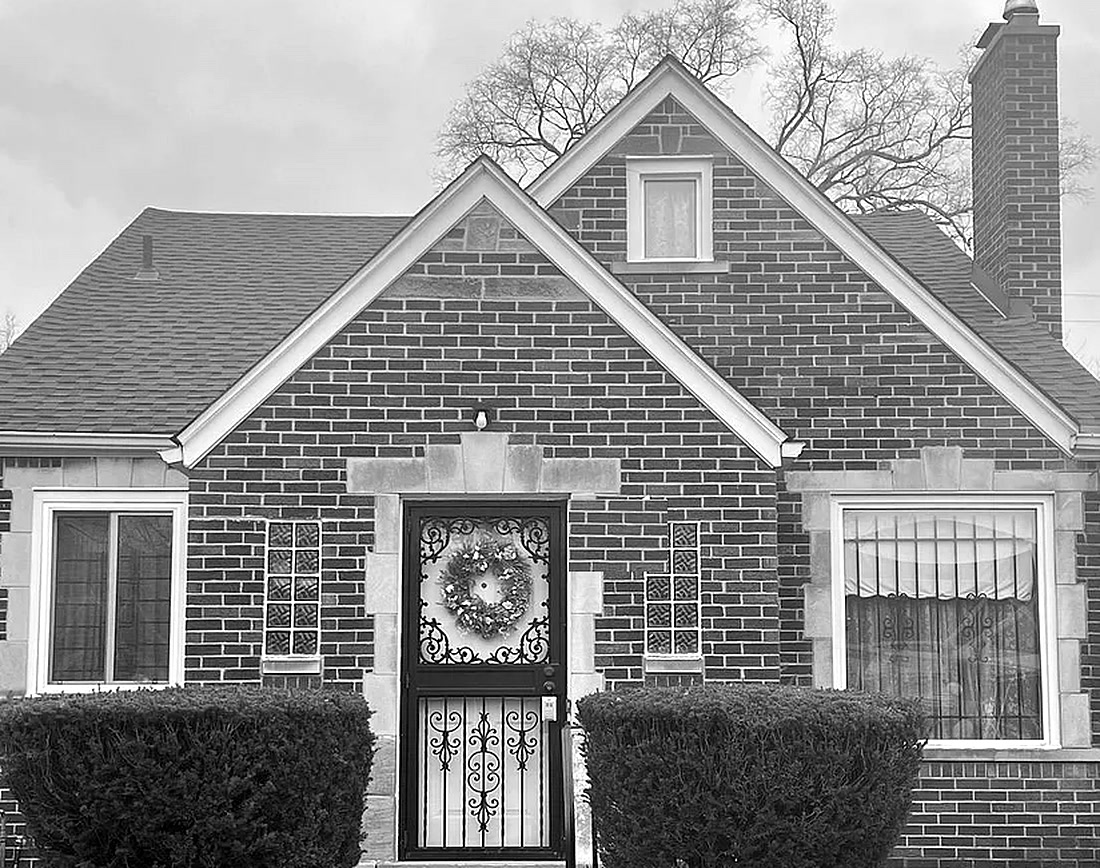
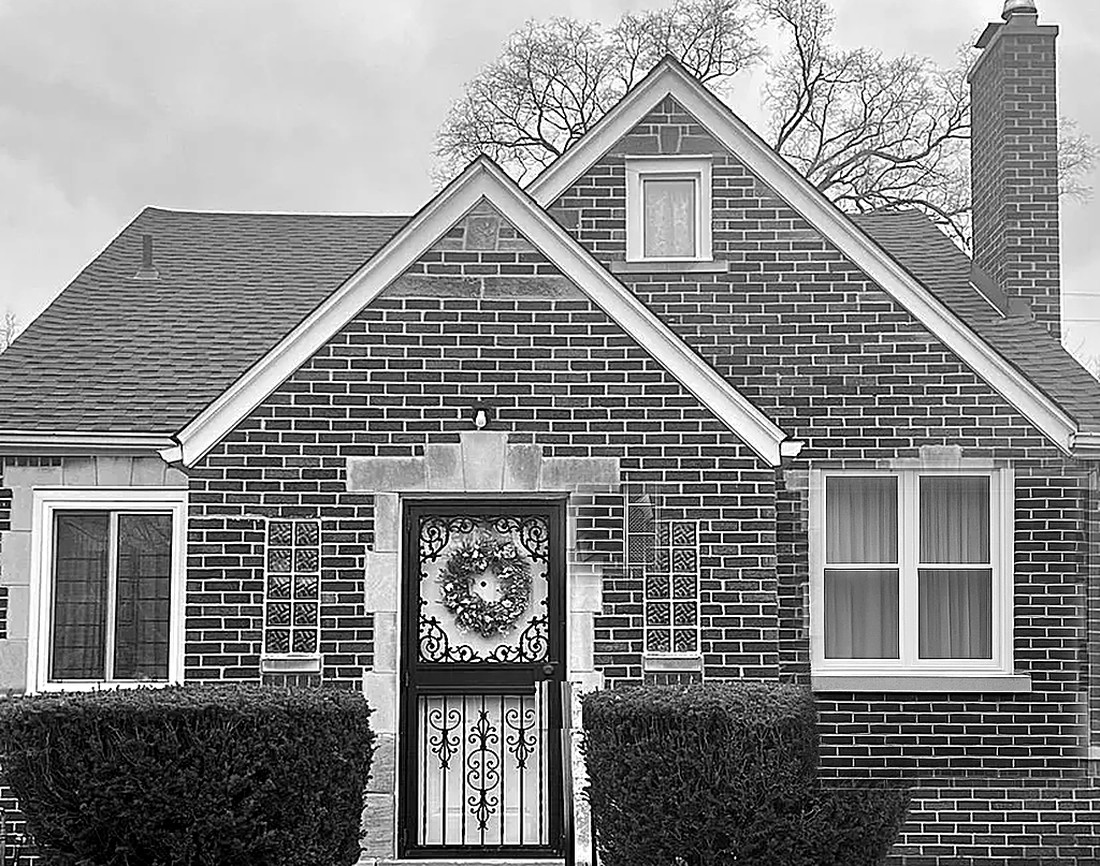
Retouch home photo: remove window bars, lockbox, keep real door
Removed the security bars from the right window and the realtor lockbox from the
door, and restored the glass blocks that were clipped when the address was removed.
Kept the real ornate iron door and glass-block windows (only the barred window and
sign area were inpainted, then composited back onto the real photo). Nicer B&W tone.

diff --git a/about.html b/about.html
@@ -57,7 +57,7 @@
       </div>
       <div class="reveal d1">
         <div class="frame warm hover-zoom" style="aspect-ratio:4/5;box-shadow:var(--shadow)">
-          <img src="assets/photos/home-exterior.jpg?v=2" alt="A Diamond House Blessings home in Detroit" data-parallax="6" style="height:112%">
+          <img src="assets/photos/home-exterior.jpg?v=3" alt="A Diamond House Blessings home in Detroit" data-parallax="6" style="height:112%">
           <div class="grade"></div>
           <div class="cap"><b>One of our homes</b>Detroit, Michigan</div>
         </div>

diff --git a/index.html b/index.html
@@ -122,7 +122,7 @@
       <div class="card"><div class="body"><div class="kick">Shared community</div><h3>Coed Home</h3><p>A welcoming home for those who prefer a mixed community. Space here is limited and fills quickly.</p></div></div>
     </div>
     <div class="frame warm hover-zoom reveal d2" style="aspect-ratio:3/2;margin-top:clamp(24px,3vw,44px);max-height:560px">
-      <img src="assets/photos/home-exterior.jpg?v=2" alt="One of the Diamond House Blessings homes in Detroit" data-parallax="6" style="height:112%">
+      <img src="assets/photos/home-exterior.jpg?v=3" alt="One of the Diamond House Blessings homes in Detroit" data-parallax="6" style="height:112%">
       <div class="grade"></div>
       <div class="cap"><b>One of our homes</b>Detroit, Michigan</div>
     </div>